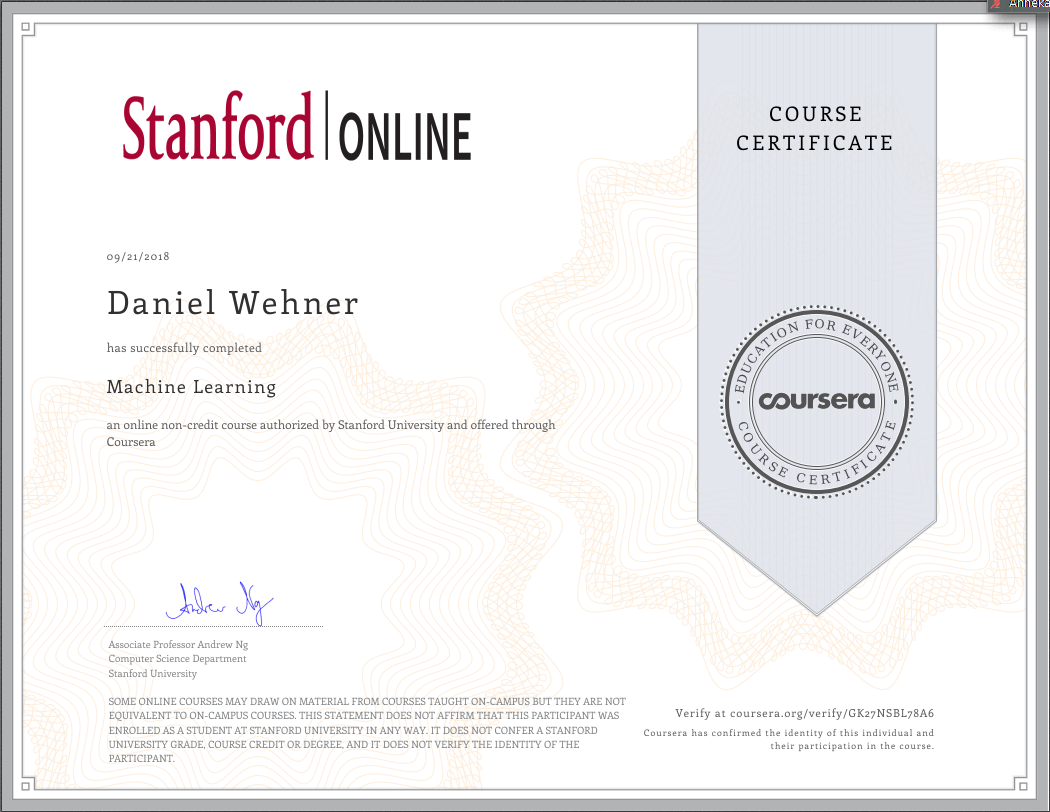
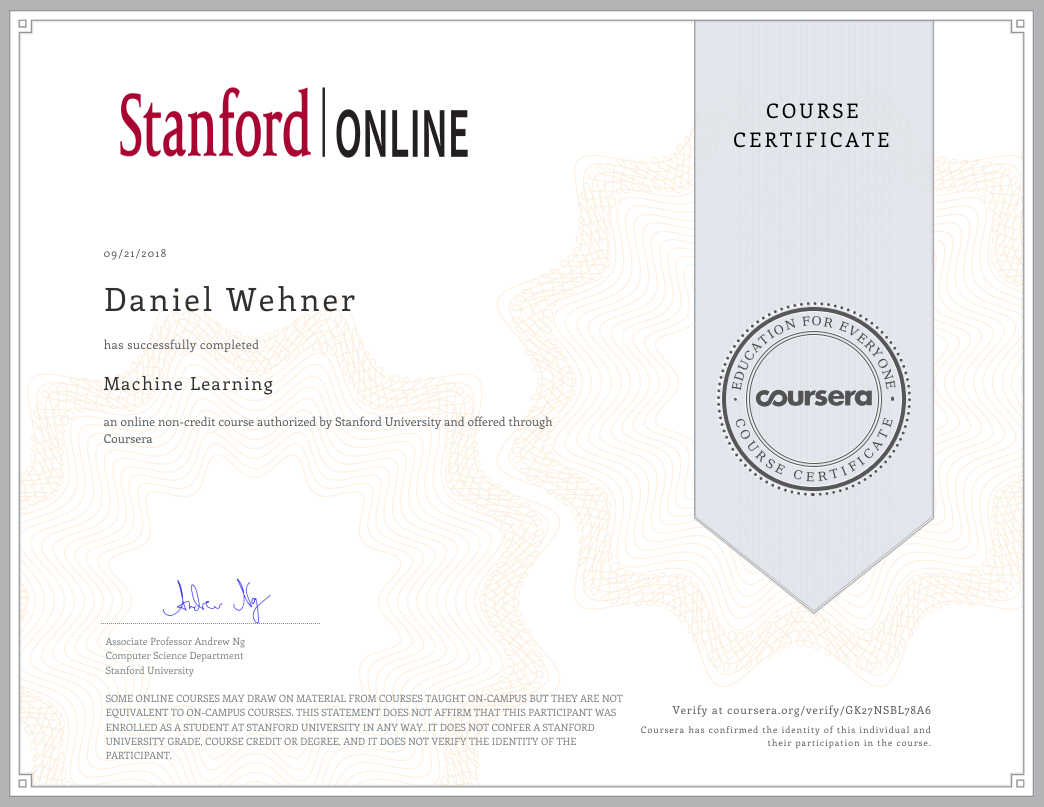
readme

diff --git a/README.md b/README.md
@@ -188,7 +188,7 @@ In general, the [Coursera machine learning course](https://de.coursera.org/learn
 You can get a nice certificate if you want (around $60), but you can also participate in the course for free (without getting the certificate):
 
 <p align="center">
-	<img src="https://github.com/DaWe1992/Applied_ML_Fundamentals/blob/master/03_tex_files/03_img/ml_certificate.png" width="400px" height="300px">
+	<img src="https://github.com/DaWe1992/Applied_ML_Fundamentals/blob/master/03_tex_files/03_img/ml_certificate.png" width="450px" height="350px">
 </p>
 
 In the exam you will not be asked for content which was not discussed in the lecture. Regard the literature as additional resources in case you want to dig deeper into
